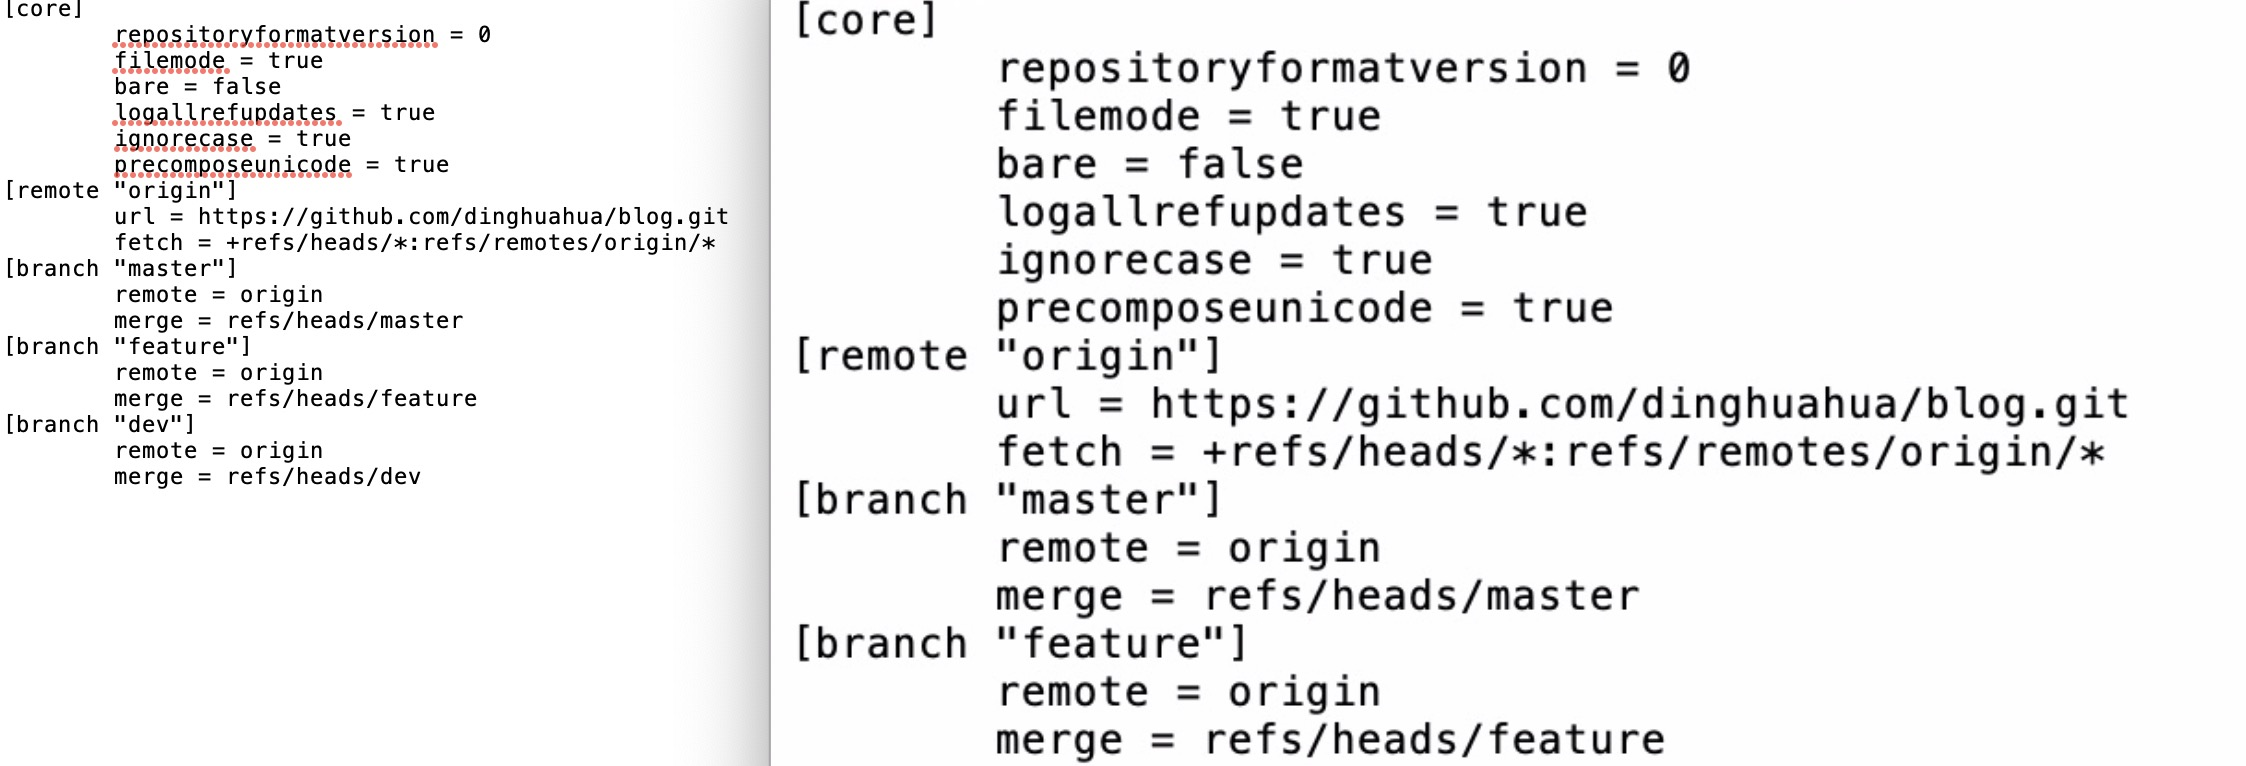
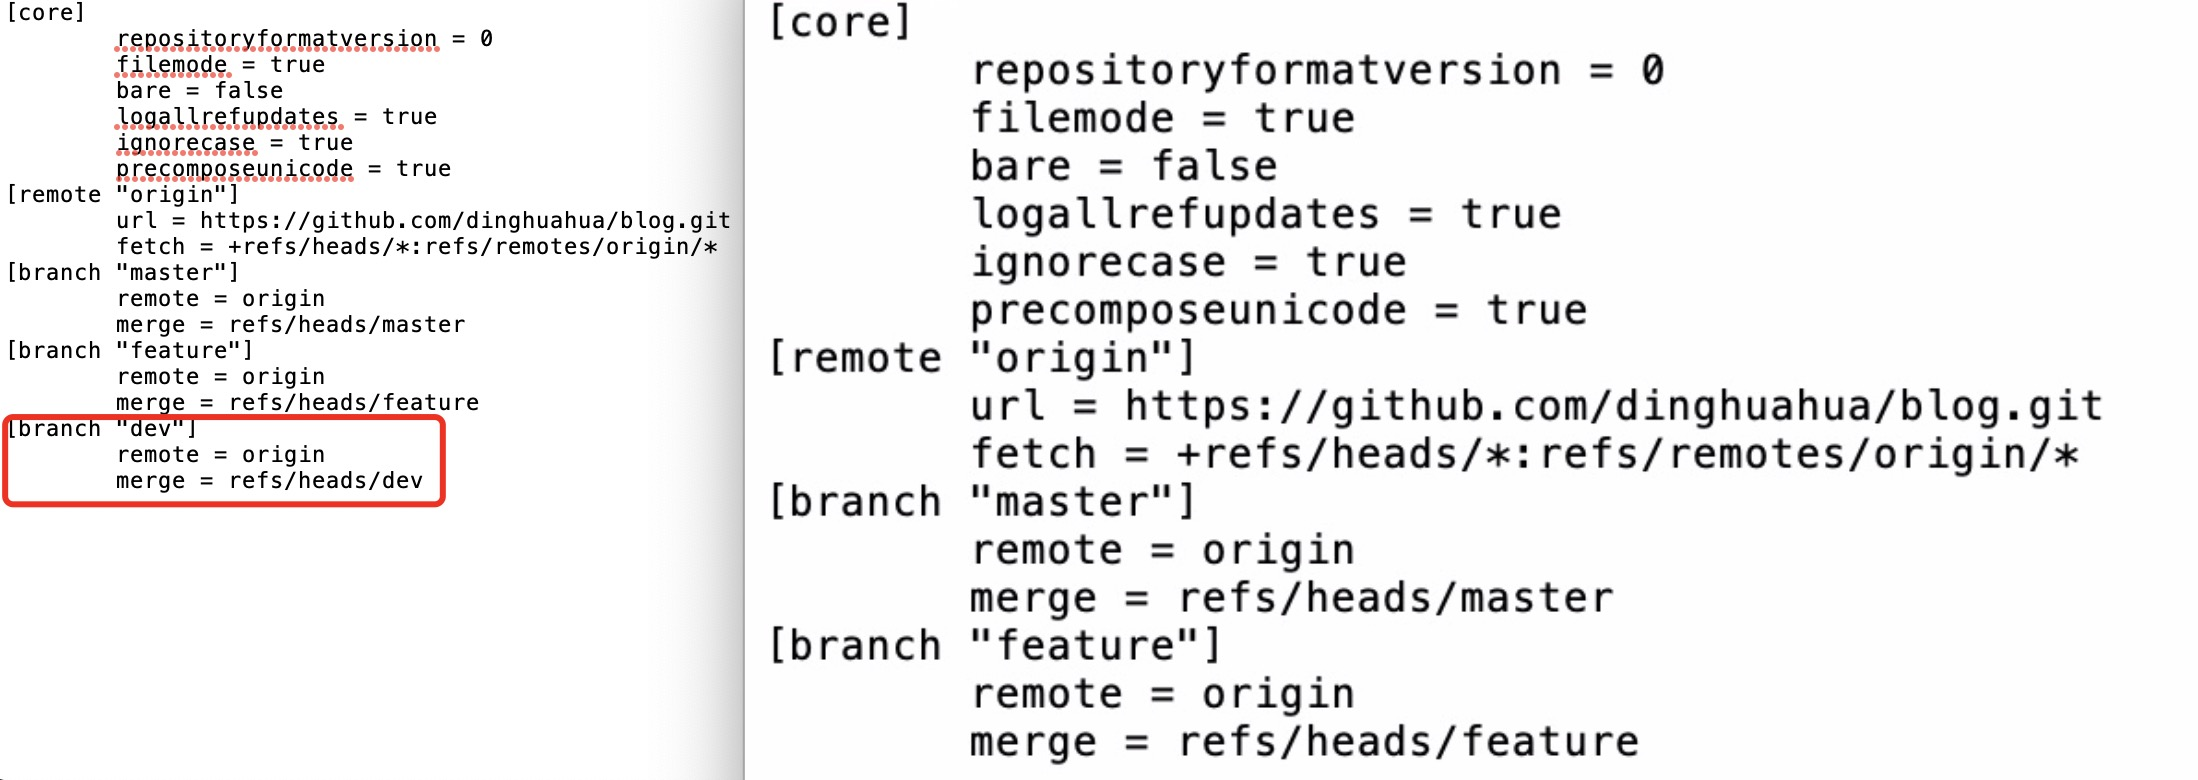
关联关问题的解决系 config文件对比

Changed region(s): [[0.0, 0.0, 0.9591, 1.0]]

diff --git a/git教程.md b/git教程.md
@@ -13,4 +13,5 @@
         命令行中添加的关联修改的是config文件
         git push --set-upstream origin dev分支名
 
-        关联关系问题到解决 ![alt 关联关系问题解决](图片地址 "关联关系问题到解决")
+        关联关系问题到解决 ![alt 关联关系](https://github.com/dinghuahua/blog/blob/dev/images/git1.png "关联关系问题到解决")
+        config文件前后对比 ![alt config文件](https://github.com/dinghuahua/blog/blob/dev/images/git2.png "config文件前后对比")
